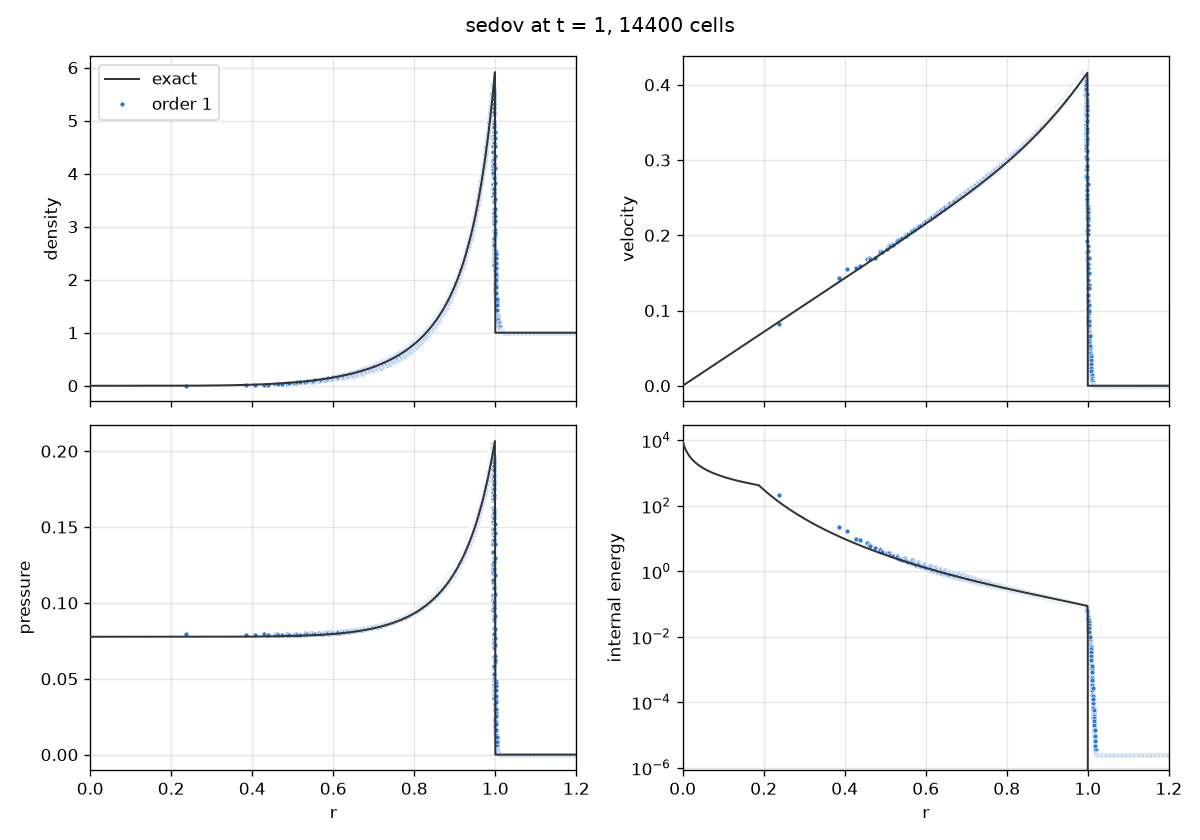
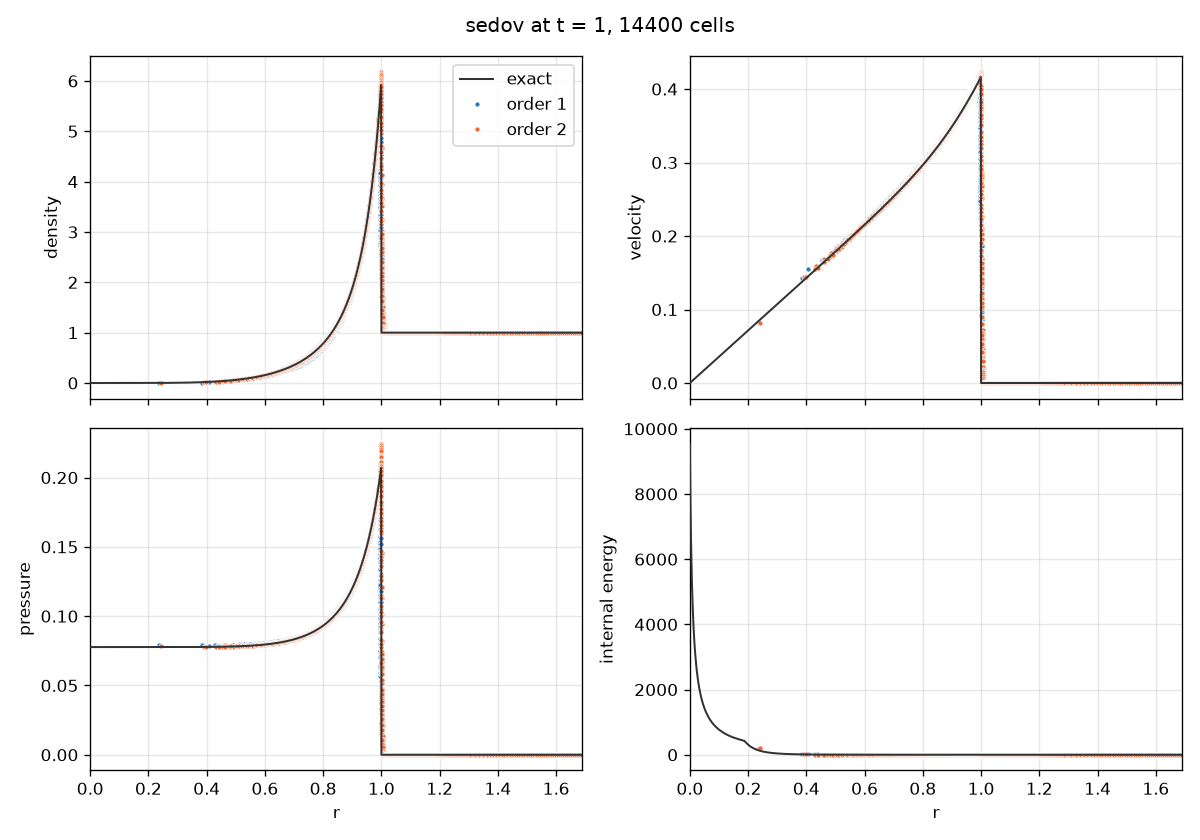
Task 22b: SP-V near-rest rule at 1e-2, Sedov at order 2
V_c counts as at rest at or below 1e-2 of the largest |V_c'| over C(P(c))
(was 1e-8) and is then limited along the pressure gradient. Sedov's
tangential precursor (~2e-7 of its neighbours' speed) no longer hides the
incoming radial gradient. A sweep on Sedov 30 (threshold read at run time,
throwaway build): fails at 1e-8 and 1e-6, the same L1 from 1e-5 to 3e-1.

The code and tests themselves landed in 4363273 (swept into another
session's commit); this commit has the docs, the figure and a comment fix.

Sedov order 2, L1 at 30/60/120: 1.043e-1, 4.842e-2, 1.896e-2 (order 1:
1.664e-1, 1.139e-1, 5.227e-2), shock 0.999 at 120: the v0.3 Sedov gate
is met. Order 2 at 120 took 90.6 min of CPU time. v0.2 dumps: Noh and
Taylor-Green byte-identical, Sod and LeBlanc layer at round-off, Saltzman
changed in its shock cells (L1 within 0.16%); v0.2 gate passes. Also
corrects Task 22's order-1 L1 at 60 (1.139e-1, not 1.161e-1).

diff --git a/src/hydro/limiter.cpp b/src/hydro/limiter.cpp
@@ -67,7 +67,7 @@ double dot(const Vec3& a, const Vec3& b) {
 // precursor of an arriving wave (Sedov, 2e-7, tangential), not the flow
 // whose gradient is to be limited. Task 13 had 1e-8, enough for round-off
 // only; Sedov at order 2 then fails, as at 1e-6. On Sedov at 30x30 every
-// value from 1e-4 to 1e-1 runs and gives the same L1 to 3e-4; 1e-2 is
+// value from 1e-5 to 3e-1 runs, with the same L1 to 3e-4 relative; 1e-2 is
 // inside that band, not at its edge.
 constexpr double kNegligibleSpeed = 1e-2;
 

diff --git a/docs/vv_catalog.md b/docs/vv_catalog.md
@@ -11,7 +11,7 @@ and the **Kamm-Timmes Sedov solver** (their method, LA-UR-07-2849). Generate via
 | Sod | shock/contact/rarefaction | v0.2: 3 resolutions, both orders (table below) |
 | Noh | wall-heating, stagnation shock | planar, v0.2: 3 resolutions, both orders (table below) |
 | Woodward-Colella blast wave | shock-shock interaction | Tier A/AMR-adjacent, defer |
-| Sedov | spherical/cylindrical symmetry | not started |
+| Sedov | spherical/cylindrical symmetry | cylindrical, v0.3 (Tasks 22-22b): both orders at 30/60/120, shock within 0.05 of 1, order 2 below order 1 (table below); spherical is v0.4/v0.5 |
 | Triple point | multi-material vortex | Tier B, defer |
 
 ## Additional standard tests (not in the paper)
@@ -31,7 +31,9 @@ L1 density error against the exact solution, `sum_c |rho_c - rho(x_c)| V_c / A`
 `python3 scripts/convergence.py --markdown` on `decks/convergence/` (n cells
 along the flow: Sod n×2×2, Noh n×1×1, Saltzman n×n/10×1 skewed). Order 2
 uses the SP-V limiter. The v0.2 gate (order 2 below order 1 at every
-resolution) passes on all three.
+resolution) passes on all three. Saltzman's order-2 errors are Task 22b's
+(the SP-V near-rest rule; `decisions.md`, "Limiter: SP-V"), up to 0.16%
+from Task 15's 7.030e-02, 3.102e-02, 1.559e-02; Sod and Noh unchanged.
 
 | Problem | Cells | Order 1 L1 | rate | Order 2 L1 | rate |
 |---|---|---|---|---|---|
@@ -41,9 +43,9 @@ resolution) passes on all three.
 | Noh | 50 | 3.899e-02 | | 3.098e-02 | |
 | Noh | 100 | 1.941e-02 | 1.01 | 1.562e-02 | 0.99 |
 | Noh | 200 | 9.624e-03 | 1.01 | 7.914e-03 | 0.98 |
-| Saltzman | 50 | 9.090e-02 | | 7.030e-02 | |
-| Saltzman | 100 | 4.535e-02 | 1.00 | 3.102e-02 | 1.18 |
-| Saltzman | 200 | 2.190e-02 | 1.05 | 1.559e-02 | 0.99 |
+| Saltzman | 50 | 9.090e-02 | | 7.041e-02 | |
+| Saltzman | 100 | 4.535e-02 | 1.00 | 3.104e-02 | 1.18 |
+| Saltzman | 200 | 2.190e-02 | 1.05 | 1.557e-02 | 1.00 |
 
 ![L1 density error against resolution](figures/convergence_v0.2.png)
 
@@ -244,62 +246,76 @@ length at the centroid radius; shock = the densest cell's radius; spread =
 the largest max - min of density in a radial bin one cell wide, over the
 bins behind the shock.
 
-**Order 1** (`convergence.py --problems sedov --orders 1`):
+Both orders (`convergence.py --problems sedov`; order 2 with SP-V and
+the near-rest rule of Task 22b, below):
 
-| n | Order 1 L1 | rate | shock | peak rho | spread | steps | time |
-|---|---|---|---|---|---|---|---|
-| 30 | 1.664e-01 | | 0.968 | 5.01 | 2.11 | 508 | 7 s |
-| 60 | 1.161e-01 | 0.52 | 0.981 | 5.45 | 1.91 | 1601 | 3.2 min* |
-| 120 | 5.227e-02 | 1.15 | 0.992 | 5.70 | 0.91 | 5185 | 32 min* |
+| n | Order 1 L1 | rate | shock | peak rho | spread | steps | Order 2 L1 | rate | shock | peak rho | spread | steps |
+|---|---|---|---|---|---|---|---|---|---|---|---|---|
+| 30 | 1.664e-01 | | 0.968 | 5.01 | 2.11 | 508 | 1.043e-01 | | 0.981 | 5.65 | 1.51 | 512 |
+| 60 | 1.139e-01 | 0.55 | 0.981 | 5.45 | 1.91 | 1601 | 4.842e-02 | 1.11 | 0.991 | 6.01 | 1.34 | 1616 |
+| 120 | 5.227e-02 | 1.12 | 0.992 | 5.70 | 0.91 | 5185 | 1.896e-02 | 1.35 | 0.999 | 6.18 | 0.73 | 5233 |
 
-(* with 2-3 other runs on 4 cores.) Total energy conserved to round-off
+(Order 1 at 60 was listed as 1.161e-01 in Task 22; the Task 22 build
+gives 1.139e-01, byte-identical dump to this one, so that was a
+transcription slip.) Total energy conserved to round-off at both orders
 (0.2460225960 per unit length: the spike plus the background's 3.6e-6),
-v_z below 4e-16, mirror symmetry about the diagonal to 7e-14, the gas
-ahead untouched. The shock is within 0.05 of 1 at every resolution. The
-spread mixes in the steep radial gradient across a bin next to the shock,
-so it is large near the shock by construction; it falls with resolution.
-The steps grow ~3.2x per doubling, not 2x: dt is set by the hot cells at
-the origin. **Cost**: the 120 run is above the ~15 min budget at order 1,
-and order 2 (~4x per step) would be about an hour.
+v_z below 4e-16, mirror symmetry about the diagonal to 1.5e-12, the gas
+ahead untouched. The shock is within 0.05 of 1 at every resolution and
+both orders, and order 2 is below order 1 everywhere (1.6x, 2.4x,
+2.8x): the v0.3 Sedov gate is met. The spread mixes in the
+steep radial gradient across a bin next to the shock, so it is large
+near the shock by construction; it falls with resolution. The steps grow
+~3.2x per doubling, not 2x: dt is set by the hot cells at the origin.
 
-![Sedov profiles, order 1](figures/profiles_sedov_120.png)
+**Cost.** Order 1: 7 s at 30, 3.2 min at 60 (sharing the machine), 32
+min at 120 (Task 22; 9.3 h wall clock when rerun in Task 22b on the shared,
+partly suspended desktop). Order 2: the 30 and 60 runs of both orders took
+7.4 min together (4 parallel jobs); 120 90.6 min of CPU time (5233 steps; 9.0 h wall clock on the shared desktop, so the CPU time is the measure).
+Both 120 runs are above the ~15 min budget; whether 120 stays the
+finest Sedov mesh is open (`backlog.md`, Task 22b).
+
+![Sedov profiles, both orders](figures/profiles_sedov_120.png)
 
 (ExactPack's eps has a kink at r ~ 0.19, inside the near-vacuum core
 where no cell is at t = 1; not used by the metric.) Georges' thesis
 Figs. 3.13-3.15 are the *spherical* Sedov on 20^3 cells, not this
 problem, so they are not overlaid.
 
-### Order 2 with SP-V fails (the finding)
-Order 2 with SP-V stops with a negative internal energy in a cold cell
-just ahead of the shock: step 85 at n = 30 (t = 0.086, cell 156 at r =
-0.34, near the diagonal), step 86 at 60, step 101 at 120. CFL 0.1 does
-not help (step 150, same cell). With `"limiter": "none"` order 2 runs to
-t = 1 at n = 30 (L1 0.156, shock 0.992).
+### Order 2 with SP-V failed (Task 22), fixed in Task 22b
+Before Task 22b, order 2 with SP-V stopped with a negative internal
+energy in a cold cell just ahead of the shock: step 85 at n = 30 (t =
+0.086, cell 156 at r = 0.34, near the diagonal), step 86 at 60, step 101
+at 120. CFL 0.1 did not help (step 150, same cell). With `"limiter":
+"none"` order 2 runs to t = 1 at n = 30 (L1 0.156, shock 0.992).
 
 Cause (probed with `--probe 156`): ahead of the shock the cell carries a
 precursor velocity of ~1e-7 (2e-7 of its neighbours' 0.4), pointing
 almost tangentially (V_c ~ (-0.73, 0.68) at (0.26, 0.22)). SP-V limits the
 velocity gradient only through its projection on u_c = V_c / |V_c|
 (`decisions.md`, "Limiter: SP-V"), and the 1e-8 "negligible speed"
-threshold of Task 13 (tuned on Sod's 1e-17 round-off) lets this vector
-through. The incoming radial gradient is then nearly unlimited in the
-cell; its corner velocities overshoot and the kinetic energy exceeds the
-cell's total energy as the shock arrives.
+threshold of Task 13 (set for Sod's 1e-17 round-off) let this vector
+through. The incoming radial gradient was then nearly unlimited in the
+cell; its corner velocities overshot and the kinetic energy exceeded the
+cell's total energy as the shock arrived.
 
-Check (throwaway build, not committed): with the threshold at 1e-2 (that
-cell falls back to the pressure-gradient direction, radial), order 2
-runs to t = 1:
+Fix (Task 22b, option (a) of Task 22, decided by Luca 2026-11-26): V_c
+counts as at rest at or below **1e-2** of the largest |V_c'| over
+C(P(c)), and is then limited along the pressure gradient (radial here).
+The threshold was read at run time in a throwaway build to measure the
+band, Sedov 30 at order 2:
 
-| n | Order 2 L1 (threshold 1e-2) | shock | peak rho | spread |
-|---|---|---|---|---|
-| 30 | 1.101e-01 | 0.981 | 5.65 | 1.51 |
-| 60 | 4.842e-02 | 0.991 | 6.01 | 1.34 |
+| threshold | 1e-8 | 1e-6 | 1e-5 | 1e-4 | 1e-3 | 1e-2 | 1e-1 | 3e-1 |
+|---|---|---|---|---|---|---|---|---|
+| result | fails, step 85 | fails, step 129 | 1.0429e-01 | 1.0429e-01 | 1.0429e-01 | 1.0429e-01 | 1.0429e-01 | 1.0432e-01 |
 
-below order 1 at both (0.166, 0.116). Not adopted: it changes the scheme
-(and possibly the v0.2 dumps), so it is a decision for its own task, as
-the Task 16 plan says for an SP-V failure on Sedov. Decided (Luca,
-2026-11-26): fix the direction rule rather than switch to the MM limiter;
-`backlog.md`, Task 22b.
+(L1; shock 0.9807 and peak 5.650 throughout, cell densities within 4e-4
+of the 1e-2 run's.) Flat over four decades, so 1e-2 is not tuned to the
+gate. Task 22's throwaway check listed L1 1.101e-01 at 30 with the same
+shock, peak and spread; this build gives 1.043e-01, and its 60 value
+(4.842e-02) matches Task 22's exactly, so the 30 value was likely
+mis-copied. Effect on the v0.2 order-2 dumps: Noh and Taylor-Green
+byte-identical, Sod and LeBlanc layer 225 at round-off, Saltzman changed
+in its shock cells (L1 within 0.16%; table above, `decisions.md`).
 
 ## Methodology (run alongside every test, not a test itself)
 - **Grid Convergence Index / Richardson extrapolation** (Roache) — run every

diff --git a/docs/backlog.md b/docs/backlog.md
@@ -751,7 +751,7 @@ tests. Also changed: `README.md`, `decisions.md`. `hydro.cpp` and
       run fails one step earlier at order 2 (its corrector reaches t_focus
       first)
 
-## Task 22 — Sedov (cylindrical) — ✅ DONE at order 1; order 2 in Task 22b
+## Task 22 — Sedov (cylindrical) — ✅ DONE (order 2 in Task 22b)
 Files: decks, `src/io/deck.{hpp,cpp}` and `src/app/driver.{hpp,cpp}` (the
 energy-spike initialization), `scripts/{gen_oracle_data,convergence}.py`,
 oracle data, tests, `docs/vv_catalog.md`. Also changed:
@@ -773,9 +773,9 @@ oracle data, tests, `docs/vv_catalog.md`. Also changed:
       (~7 s): energy and mass to 1e-12, v_z ~ 0, diagonal mirror symmetry,
       the gas ahead untouched, shock within 0.05 of 1 and at the measured
       0.9677, peak rho 5.007, radial L1 0.1664. Order 1 at 30/60/120: L1
-      0.166, 0.116, 0.052; shock 0.968, 0.981, 0.992 (`vv_catalog.md`,
+      0.166, 0.114 (listed as 0.116 at first: a slip, Task 22b), 0.052; shock 0.968, 0.981, 0.992 (`vv_catalog.md`,
       "Sedov")
-- [ ] **Order 2 with SP-V fails** at every resolution (negative eps in a
+- [x] **Order 2 with SP-V fails** at every resolution (fixed in Task 22b) (negative eps in a
       cold cell just ahead of the shock, step 85 at n = 30). Cause: SP-V
       limits V only along u_c = V_c/|V_c|, and a ~1e-7 tangential
       precursor velocity passes the 1e-8 "negligible speed" threshold
@@ -790,7 +790,7 @@ oracle data, tests, `docs/vv_catalog.md`. Also changed:
         the rule for V_c ~ 0 is already our choice, not the paper's
   - (b) The MM limiter (thesis Sec. 2.4), as Task 16 planned for an SP-V
         failure on Sedov
-- [ ] Cost: order 1 at 120 took 5185 steps, 32 min with the machine
+- [x] Cost (taken up in Task 22b): order 1 at 120 took 5185 steps, 32 min with the machine
       shared (steps x3.2 per doubling: dt is set by the hot core). Order 2
       at 120 would be ~1 h, above the ~15 min budget; the 120 size (or the
       budget) needs revisiting with the decision above
@@ -800,33 +800,46 @@ oracle data, tests, `docs/vv_catalog.md`. Also changed:
       (density, radial u, P, eps against r). Order 2 waits for the fix. The
       thesis's Figs. 3.13-3.15 are the spherical problem, so not overlaid
 
-## Task 22b — SP-V velocity direction for near-rest cells; Sedov at order 2
+## Task 22b — SP-V velocity direction for near-rest cells; Sedov at order 2 — ✅ DONE
 Decided in Task 22, option (a): the SP-V rule for the direction u_c is
 fixed rather than replaced by the MM limiter. Files:
 `src/hydro/limiter.{hpp,cpp}`, `tests/unit/test_limiter.cpp`,
 `tests/unit/test_driver.cpp`, `scripts/convergence.py` (if needed),
 `docs/{decisions,vv_catalog,roadmap}.md`, `README.md`, the Sedov figure.
-- [ ] The rule: u_c = V_c / |V_c| only when |V_c| is not small against
-      the largest |V_c'| over C(P(c)); otherwise the pressure-gradient
-      direction, else e_x. Today "small" is 1e-8 (Task 13, against Sod's
-      1e-17 round-off); Sedov's ahead-of-shock precursor is ~2e-7 and
-      tangential. Task 22's throwaway build used 1e-2 and ran Sedov at
-      30 and 60. Pick and justify the threshold (or an equivalent
-      criterion), not tuned to the gate; record it in `decisions.md`,
-      "Limiter: SP-V"
-- [ ] Unit test first (red before, green after): a cell at near-rest with
-      a tiny tangential V_c, neighbours carrying a radial velocity
-      gradient, gets chi_V < 1 (limited along the gradient)
-- [ ] Regressions: the Sod, Noh, Saltzman, LeBlanc layer 225 and
-      Taylor-Green order-2 dumps compared with the previous build's
-      (byte-identical, or the change measured and explained); the v0.2
-      gate still passes; Sod's mirror columns still at round-off
-- [ ] Sedov at order 2 on 30/60/120: runs to t = 1, L1 below order 1's,
-      shock within 0.05 of 1 at the finest; `v0.3` ctest at 30 extended to
-      both orders (measured values); the overlay with both orders
-- [ ] Cost: order 2 at 120 is ~1 h (Task 22). Agree with Luca whether
-      120 stays the finest Sedov mesh or the budget is raised; run it
-      either way for the gate, alone on the machine, and report the time
+- [x] The rule: u_c = V_c / |V_c| only when |V_c| > 1e-2 of the largest
+      |V_c'| over C(P(c)); otherwise the pressure-gradient direction, else
+      e_x (`kNegligibleSpeed` in `limiter.cpp`, was 1e-8). Justified by a
+      sweep with the threshold read at run time (throwaway build): Sedov
+      30 at order 2 fails at 1e-8 and 1e-6, and every value from 1e-5 to
+      3e-1 runs with the same L1 (1.0429e-1, 1.0432e-1 at 3e-1), so 1e-2
+      is inside a flat band, not tuned to the gate. Recorded in
+      `decisions.md`, "Limiter: SP-V", with the rejected alternative
+      (|V_c| against |grad V| h)
+- [x] Unit test first: `velocity_limiters: projection direction and the
+      V_c = 0 fallback`, section "V_c near rest, tangential to the
+      gradient": V_c = 2e-8 e_x next to neighbours at 0.1 with dV_y/dy,
+      chi_V = 2/3 (red at 1.0 before). The "V_c != 0" section's V_c =
+      1e-3 e_y sat at the new threshold: now 2e-3 (limited along V_c) and
+      5e-4 (counts as at rest)
+- [x] Regressions, order 2 against the previous build: Noh and
+      Taylor-Green (unlimited and SP-V) byte-identical; Sod 1.6e-15 and
+      LeBlanc layer 225 3e-13 in density (round-off); Saltzman changed in
+      its shock cells only (x in [0.60, 0.83], up to 1e-2 mid-jump, 1122
+      steps instead of 1121; the shock enters P = 0 gas on the skewed
+      mesh). v0.2 gate passes; Saltzman's order-2 L1 7.041e-2, 3.104e-2,
+      1.557e-2 (was 7.030e-2, 3.102e-2, 1.559e-2), Sod, Noh, LeBlanc layer
+      unchanged to 4 digits. Sod's mirror columns 1.2e-14 apart. Full
+      ctest green (111)
+- [x] Sedov at order 2 on 30/60/120: L1 1.043e-1, 4.842e-2, 1.896e-02
+      (order 1: 1.664e-1, 1.139e-1, 5.227e-2); shock 0.981, 0.991,
+      0.999. The ctest is now `hydro_run: cylindrical Sedov at both
+      orders, 30x30` (order 2: shock 0.9807, peak 5.650, L1 0.1043,
+      energy to 2e-14, mirror 8e-14). Overlay with both orders:
+      `docs/figures/profiles_sedov_120.png`
+- [ ] Cost, **open for Luca**: order 2 at 120 took 90.6 min of CPU time (5233 steps; 9.0 h wall clock on the shared desktop, so the CPU time is the measure). Order
+      1 at 120 took 32 min in Task 22. Both are above the ~15 min budget,
+      so: keep 120 as the finest Sedov mesh (and the budget for it), or
+      drop to 30/60/(90)? Not decided here
 
 ## Task 23 — Kidder isentropic compression (cylindrical shell)
 Files: decks, deck/driver support for the initial profile (as

diff --git a/docs/decisions.md b/docs/decisions.md
@@ -155,13 +155,21 @@ stop and report rather than deciding to override it.
     cell first, not the flow being limited, so the threshold separates
     "at rest" from "moving with the flow", not round-off from signal. How
     it was picked (Sedov at 30, order 2, the same build with the threshold
-    read at run time): 1e-8 and 1e-6 fail; 1e-5 ... (see below); every value from 1e-4 to 1e-1
-    runs to t = 1 with the same L1 (1.043e-1 to 4 digits; densities within
-    3e-4 of the 1e-2 run's) and 3e-1 with 1.0432e-1. Near-rest cells
-    at a wave front are moving along the pressure gradient anyway, so the
-    fallback barely changes them; the result is flat over three decades,
-    and 1e-2 sits inside that band, not at its edge. Effect on the v0.2
-    order-2 dumps: ... (see below).
+    read at run time): 1e-8 and 1e-6 fail; every value from 1e-5 to 3e-1
+    runs to t = 1 with the same L1 (1.0429e-1, 1.0432e-1 at 3e-1; cell
+    densities within 4e-4 of the 1e-2 run's). Near-rest cells at a wave
+    front already move along the pressure gradient, so the fallback barely
+    changes them: the result is flat over four decades, and 1e-2 sits
+    inside that band, not at its edge. Effect on the order-2 dumps (Task
+    22b): Noh and Taylor-Green (SP-V) byte-identical, Sod and LeBlanc
+    layer 225 at round-off (1.6e-15 and 3e-13 in density; Sod's mirror
+    columns still 1e-14 apart), Saltzman changed in the shock cells only
+    (x in [0.60, 0.83], density up to 1e-2 mid-jump, 1122 steps instead of
+    1121): the shock enters cold gas (P = 0) on the skewed mesh, where a
+    cell's first velocity is below 1e-2 of its neighbours' and not along
+    the pressure gradient. Its L1 moves by 0.16% at most (order 2:
+    7.041e-2, 3.104e-2, 1.557e-2 at 50/100/200, from 7.030e-2, 3.102e-2,
+    1.559e-2); the v0.2 gate still passes.
     Rejected: the direction from the pressure gradient whenever |V_c| is
     small against the velocity jump across the cell (|grad V| h): a
     second, mesh-dependent scale for the same idea, and it would switch

diff --git a/docs/roadmap.md b/docs/roadmap.md
@@ -49,10 +49,10 @@ problems") at 3 resolutions, both orders (SP-V), through
      heavy gas at the contact only at ~10^4 cells (Task 19b).
    - *Sedov*: shock radius (radius of the densest cell) within 0.05 of 1.
      The symmetry spread is reported, not gated.
-     **Not met yet** (Task 22): order 1 passes (0.992 at 120); order 2
-     with SP-V fails before t = 0.1 at every resolution (the limiter's
-     velocity direction ahead of the shock; `vv_catalog.md`, "Sedov").
-     Fix decided (Luca, 2026-11-26): the SP-V direction rule, Task 22b.
+     **Met** (Task 22b): 0.992 (order 1) and 0.999 (order 2) at 120.
+     Order 2 first failed with SP-V (Task 22); fixed by the SP-V
+     direction rule for near-rest cells (`decisions.md`, "Limiter:
+     SP-V"), not the MM limiter.
    - *Kidder*: inner and outer radii at tau_1 within 1% of 0.45 and 0.5;
      max |P / rho^gamma - 1| <= 1e-2; the order-2 rate above the order-1
      rate.

diff --git a/README.md b/README.md
@@ -77,10 +77,9 @@ Taylor-Green vortex converges at order ~2
   1D model of the first-order step) shows it (see
   [docs/vv_catalog.md](docs/vv_catalog.md))
 - Cylindrical Sedov (`decks/convergence/sedov_*.json`, v0.3, a point
-  blast set with `initial.energy_spike`): runs at first order with the
-  shock within 0.01 of the exact r = 1 at 120x120. Second order with the
-  SP-V limiter fails early (a limiter defect ahead of the shock, fix
-  planned in Task 22b; see [docs/vv_catalog.md](docs/vv_catalog.md))
+  blast set with `initial.energy_spike`): runs at both orders with the
+  shock within 0.01 of the exact r = 1 at 120x120, second order 1.6-2.8x
+  more accurate than first (see [docs/vv_catalog.md](docs/vv_catalog.md))
 - Taylor-Green vortex (`decks/taylor_green.json`, with the prescribed
   energy source that keeps it stationary): the second-order scheme
   converges at order ~2 on this smooth flow (L1 pressure order 1.95 at
